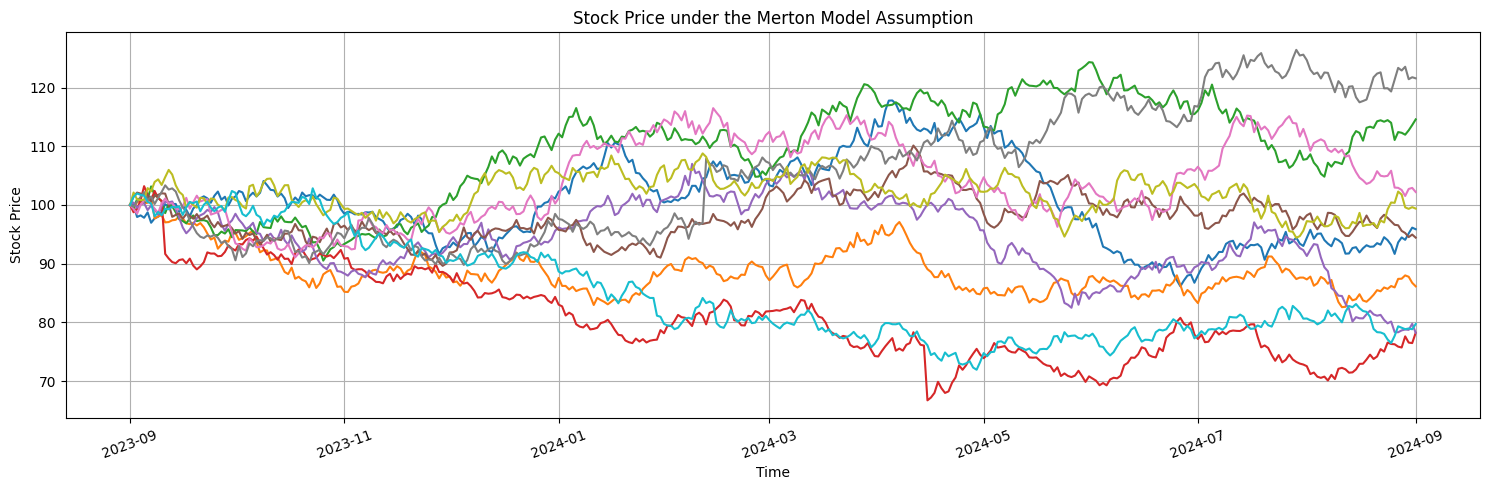
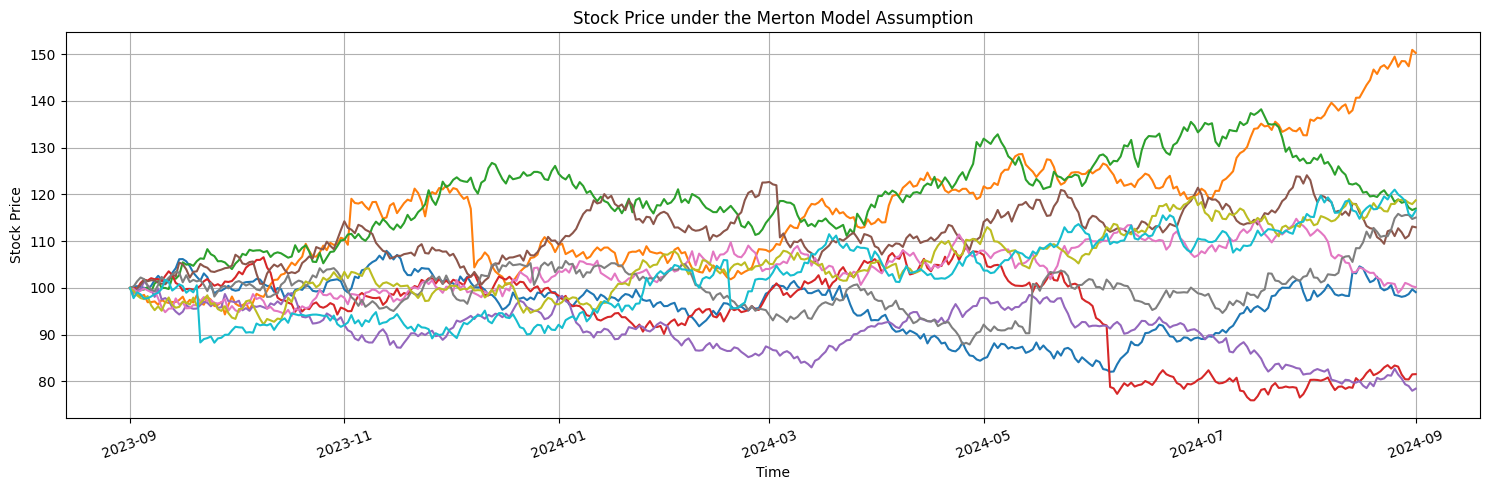
Update Merton

diff --git a/processes/merton.py b/processes/merton.py
@@ -7,9 +7,9 @@ from utils.random import generate_random_numbers
 from utils.plotting import plot_simulated_paths
 from utils.timesteps import generate_date_range_with_granularity, date_range_duration
 
-class MertonModel:
+class MertonJumpDiffusion:
     """
-    MertonModel
+    MertonJumpDiffusion
     ===========
 
     A class to simulate a jump diffusion process based on the Merton model.
@@ -147,13 +147,15 @@ class MertonModel:
         S = np.zeros((self._num_paths, self.__num_steps))
         S[:, 0] = self._S0
 
+        k = np.exp(self._mu_j + 0.5 * self._sigma_j**2) - 1
+
         for t in range(1, self.__num_steps):
             Z = generate_random_numbers('normal', self._num_paths, mean=0, stddev=1)
             N = generate_random_numbers('poisson', self._num_paths, lam=self._lambda_j * self.__dt)
             J = np.zeros(self._num_paths)
 
             J[N > 0] = generate_random_numbers('normal', np.sum(N > 0), mean=self._mu_j, stddev=self._sigma_j)
-            S[:, t] = S[:, t-1] * np.exp((self._mu - 0.5 * self._sigma**2) * self.__dt + self._sigma * np.sqrt(self.__dt) * Z + J)
+            S[:, t] = S[:, t-1] * np.exp((self._mu - 0.5 * self._sigma**2 - self._lambda_j * k) * self.__dt + self._sigma * np.sqrt(self.__dt) * Z + J)
 
         return S
 

diff --git a/processes/bates.py b/processes/bates.py
@@ -13,4 +13,33 @@ class BatesModel:
     ==========
     
     A class to model the Bates process, a stochastic process that exhibits jump diffusion with stochastic volatility.
+    
+    Attributes
+    ----------
+    _S0 : float
+        
     """
+    
+    def __init__(self):
+        """
+        Initializes a BatesModel object.
+        
+        Parameters
+        ----------
+        S0 : float
+            The initial value of the asset or variable being modeled.
+        mu : float
+            The annualized drift or mean return rate of the process.
+        sigma : float
+            The annualized volatility or standard deviation of the returns.
+        lambda_j : float
+            The jump intensity parameter.
+        mu_j : float
+            The mean jump size.
+        sigma_j : float
+            The volatility of the jump sizes.
+        dt : float
+            The time step size.
+        T : float
+            The time duration.
+        """

diff --git a/processes/__init__.py b/processes/__init__.py
@@ -3,13 +3,13 @@ The `FinStoch.processes` module contains classes and methods for simulating vari
 """
 
 from .gbm import GeometricBrownianMotion
-from .merton import MertonModel
+from .merton import MertonJumpDiffusion
 from .ou import OrnsteinUhlenbeck
 from .cir import CoxIngersollRoss
 from .heston import HestonModel
 from .cev import ConstantElasricityOfVariance
 
-__all__ = ['GeometricBrownianMotion', 'MertonModel', 'OrnsteinUhlenbeck', 'CoxIngersollRoss', 'HestonModel', 'ConstantElasricityOfVariance']
+__all__ = ['GeometricBrownianMotion', 'MertonJumpDiffusion', 'OrnsteinUhlenbeck', 'CoxIngersollRoss', 'HestonModel', 'ConstantElasricityOfVariance']
 
 __version__ = 'v1.0.0'
 

diff --git a/README.md b/README.md
@@ -59,7 +59,7 @@ gbm.plot(paths=simulated_paths,
 - **SDE**
   
 $$
-dS_t = \mu S_t  dt + \sigma S_t  dW_t + S_t  dJ_t  
+dS_t = \left(\mu - \lambda_j\left( e^{\mu_j+\frac{\sigma_j^2}{2}} - 1\right) \right) S_t  dt + \sigma S_t  dW_t + S_t \left( \prod_{i=1}^{dN_t} Y_i - 1\right) 
 $$
   
   - An extension of the geometric Brownian motion that incorporates sudden, discrete jumps $ J_t $ in addition to continuous diffusion, capturing both regular volatility and occasional large shocks.
@@ -67,22 +67,22 @@ $$
 - **Euler-Maruyama Discretization**
 
 $$
-S_{t+\Delta t} = S_t . e^{\left( \mu - \frac{1}{2} \sigma^2 \right) \Delta t + \sigma \sqrt{\Delta t} \epsilon_t + J_t }
+S_{t+\Delta t} = S_t . e^{\left( \mu - \frac{1}{2} \sigma^2 -\lambda_j\left( e^{\mu_j+\frac{\sigma_j^2}{2}} - 1\right)\right) \Delta t + \sigma \sqrt{\Delta t} \epsilon_t + J_t }
 $$
 
   Where $\epsilon_t \sim \mathcal{N}(0, 1)$ and $J_t$ is the jump component at time $t$.
 
 ```python
 import numpy as np
-from FinStoch.processes import MertonModel
+from FinStoch.processes import MertonJumpDiffusion
 
 # Parameters
 S0 = 100                    # Initial process value
 mu = 0.05                   # Drift coefficient
 sigma = 0.2                 # Volatility
 lambda_j = 1                # Jump intensity
-mu_j = 0.02                 # Mean of jump size
-sigma_j = 0.1               # Standard deviation of jump size
+mu_j = 0.0                  # Mean of jump size
+sigma_j = 0.15              # Standard deviation of jump size
 num_paths = 10              # Number of simulated paths
 start_date = '2023-09-01'   # Start date for the simulation
 end_date = '2024-09-01'     # End date for the simulation
@@ -90,7 +90,7 @@ granularity = 'D'           # Granularity in daily intervals
 
 
 # Create Merton model instance and plot
-merton = MertonModel(S0, mu, sigma, lambda_j, mu_j, sigma_j, num_paths, start_date, end_date, granularity)
+merton = MertonJumpDiffusion(S0, mu, sigma, lambda_j, mu_j, sigma_j, num_paths, start_date, end_date, granularity)
 
 # Simulate the Merton process
 simulated_paths = merton.simulate()
